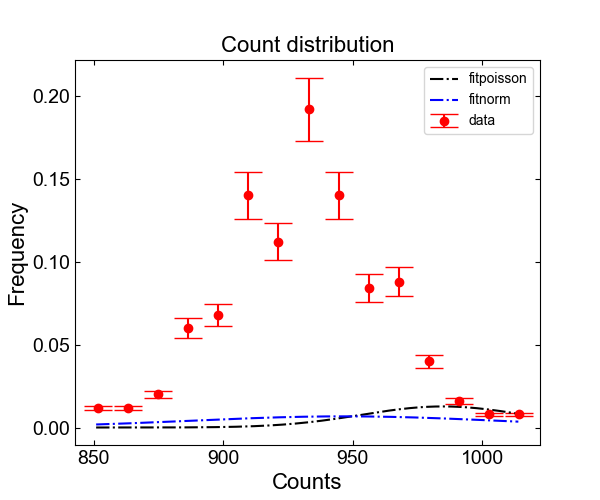
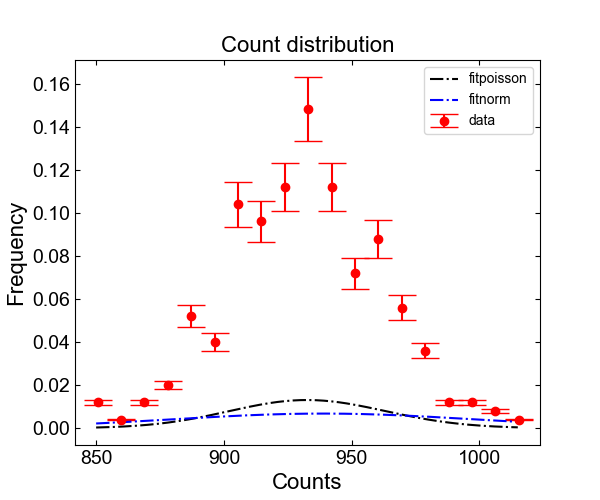
516

diff --git a/Databehandling.py b/Databehandling.py
@@ -39,16 +39,17 @@ with open('./CSMHUNT_12301_2022-9-7_16-3-44.cvs', 'r') as file:
 
 x= np.array(sorted(data[9][2:]))
 
-x_counts, bin = np.histogram(x, bins=15)
+x_counts, bin = np.histogram(x, bins=19)
 
 
-print(len(x))
+
 #plt.hist(x, bins=15)
 #plt.show()
 
 x_mu = np.mean(x)
+x_var = np.std(x)**2
 #print("x", type(x[0]))
-ys = poisson.pmf(x,x_mu)
+
 
 x_frequency = x_counts/len(x)
 #print(x_frequency, len(x_frequency), bin)
@@ -62,7 +63,7 @@ y = x_frequency
 x = bin_points
 
 
-
+plt.scatter(x,y)
 
 plt.rc("font", family=["Helvetica", "Arial"]) # skifter skrifttype
 plt.rc("axes", labelsize=16)   # skriftstørrelse af `xlabel` og `ylabel`
@@ -81,9 +82,10 @@ def funlin(x, a):
 
 
 yler = np.array((y))*0.1
-pinit1 = 931
+print(yler)
+pinit1 = [x_mu]
 xhelp1 = np.linspace(int(x[0]),int(x[-1]),int(x[-1])-int(x[0])+1)
-print(xhelp1)
+
 popt, pcov = curve_fit(funlin, x, y, p0=pinit1, sigma=yler, absolute_sigma=True)
 print('a (hældning):',popt[0])
 perr = np.sqrt(np.diag(pcov))
@@ -92,8 +94,8 @@ chmin = np.sum(((y-funlin(x, *popt))/yler)**2)
 print('chi2:',chmin,' ---> p:', ss.chi2.cdf(chmin,4))
 
 
-mu = 931
-variance = 100
+mu = x_mu
+variance = x_var
 sigma = math.sqrt(variance)
 
 
